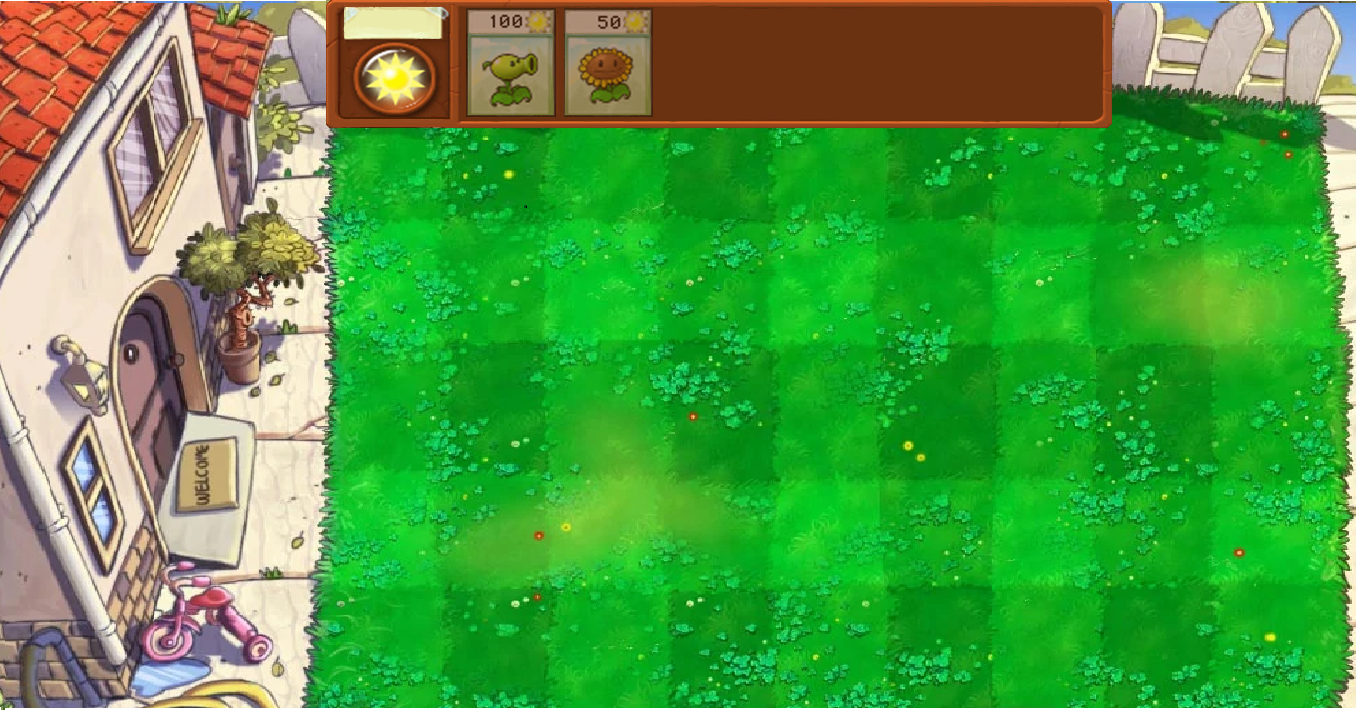
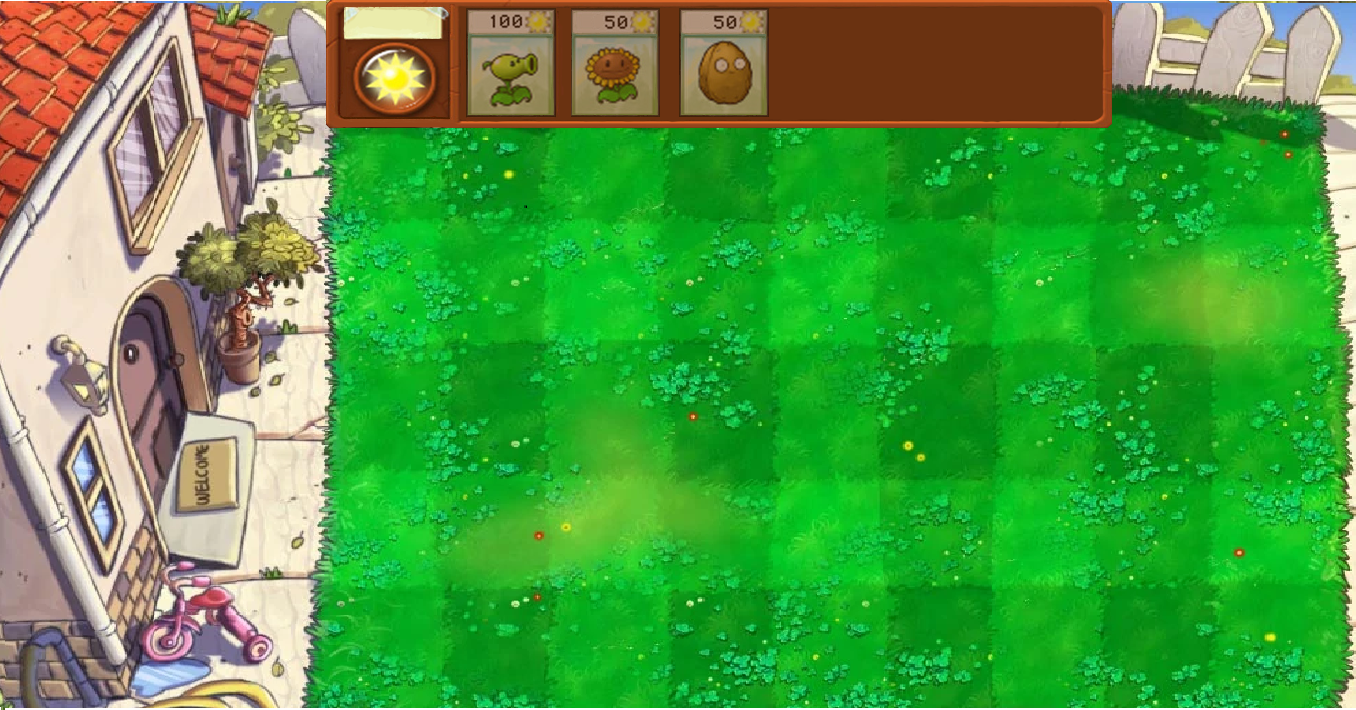
wallnut incluida na loja e resolucao do problema de colocar mais de uma planta por tile

Changed region(s): [[0.4027, 0.0, 0.5885, 0.1859]]

diff --git a/core/src/com/plantsvszombies/game/controller/InputController.java b/core/src/com/plantsvszombies/game/controller/InputController.java
@@ -5,6 +5,7 @@ import com.plantsvszombies.game.model.PeaShooter;
 import com.plantsvszombies.game.model.Plant;
 import com.plantsvszombies.game.model.SunFlower;
 import com.plantsvszombies.game.model.Tile;
+import com.plantsvszombies.game.model.WallNut;
 
 public class InputController {
 	private boolean isPlantSelected = false;
@@ -19,6 +20,11 @@ public class InputController {
 		System.out.println(tile.getPositionTileX());
 		System.out.println(tile.getPositionTileY());
 		System.out.println(tile.isShop());
+		
+		if(tile.IsThereAPlant()) 
+			return null;
+			
+		
 		
 		if(!isPlantSelected && !tile.isShop()) {
 			return null;
@@ -43,6 +49,7 @@ public class InputController {
 		case "PeaShooter": 
 			isPlantSelected = false;
 			selectedPlantType = null;
+			tile.PlaceAPlant(selectedPlantType);
 			
 			return new PeaShooter(
 
@@ -57,17 +64,29 @@ public class InputController {
 		case "Sunflower":
 			isPlantSelected = false;
 			selectedPlantType = null;
+			tile.PlaceAPlant(selectedPlantType);
 			
 			return new SunFlower(
-					
-					
+							
 					tile.getX(),
 					tile.getY(),
 					tile.getPositionTileX(),
 					tile.getPositionTileX()
 					
+					);
+			
+			
+		case "WallNut":
+			isPlantSelected = false;
+			selectedPlantType = null;
+			tile.PlaceAPlant(selectedPlantType);
+			
+			return new WallNut(
 					
-					
+					tile.getX(),
+					tile.getY(),
+					tile.getPositionTileX(),
+					tile.getPositionTileX()		
 						
 					);
 			

diff --git a/core/src/com/plantsvszombies/game/model/Tile.java b/core/src/com/plantsvszombies/game/model/Tile.java
@@ -10,6 +10,7 @@ public class Tile {
 	private boolean isShop = false;
 	private boolean isOutOfBounds = false;
 	private boolean isSelected = false;
+	private boolean isThereAPlant = false;
 	private String plantType = "PeaShooter";
 
 	
@@ -104,4 +105,16 @@ public class Tile {
 	public void Unselect() {
 		isSelected = false;
 	}
+	
+	public boolean IsThereAPlant() {
+		return isThereAPlant;		
+	}
+	
+	public void PlaceAPlant(String plantType) {
+		
+		isThereAPlant = true;
+		this.plantType = plantType;		
+	}
+	
 }
+

diff --git a/core/src/com/plantsvszombies/game/controller/MapController.java b/core/src/com/plantsvszombies/game/controller/MapController.java
@@ -30,6 +30,7 @@ public class MapController {
 		}
 		matrizMapa[4][5] = new Tile(4, 5, map, "PeaShooter");
 		matrizMapa[5][5] = new Tile(5, 5, map, "Sunflower");
+		matrizMapa[6][5] = new Tile(6, 5, map, "WallNut");
 		
 		
 		return map;
